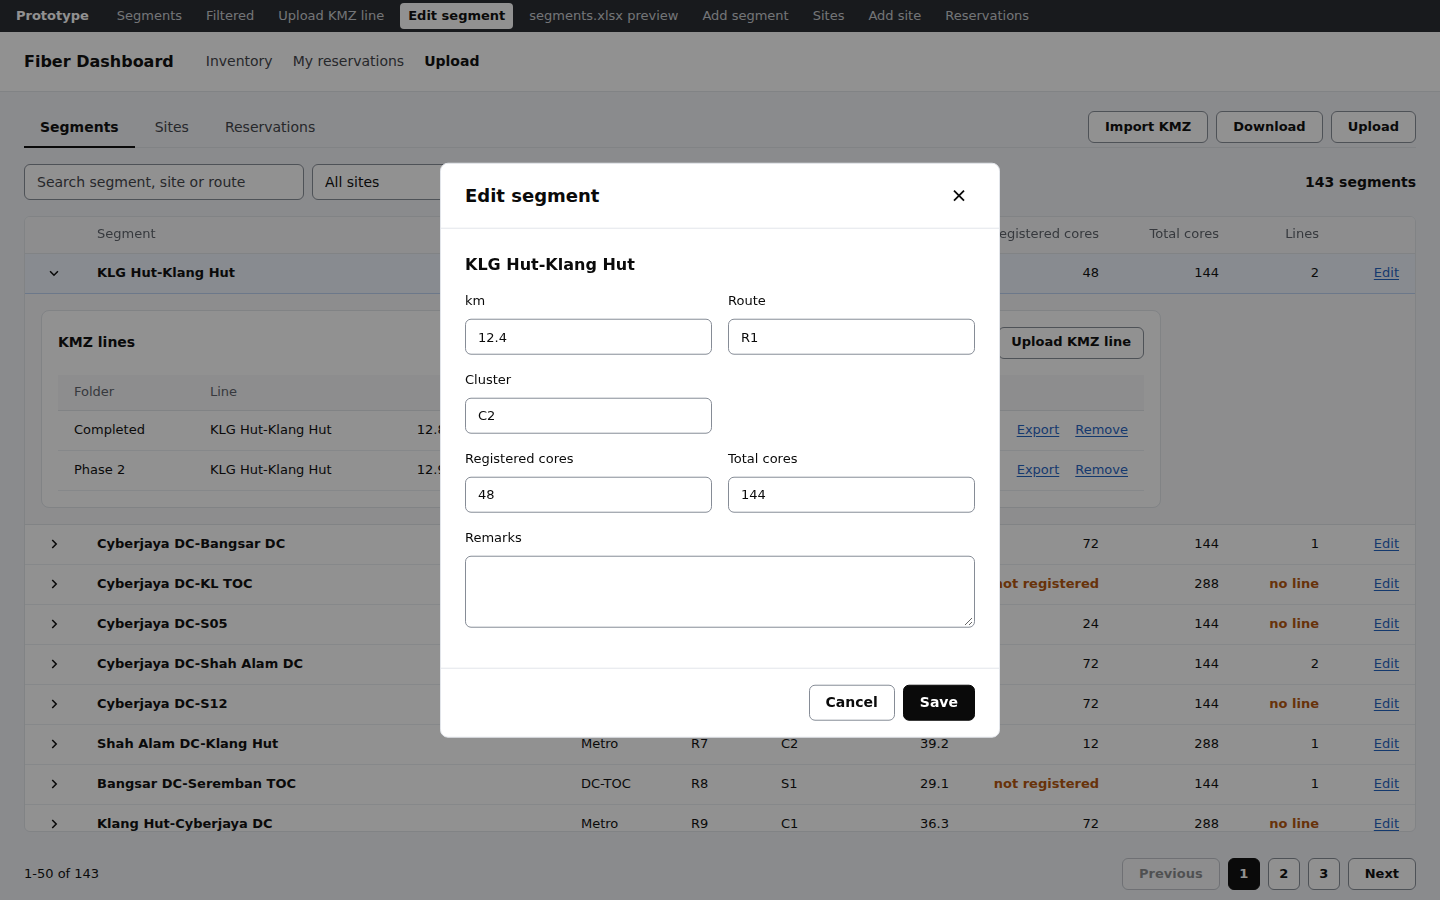
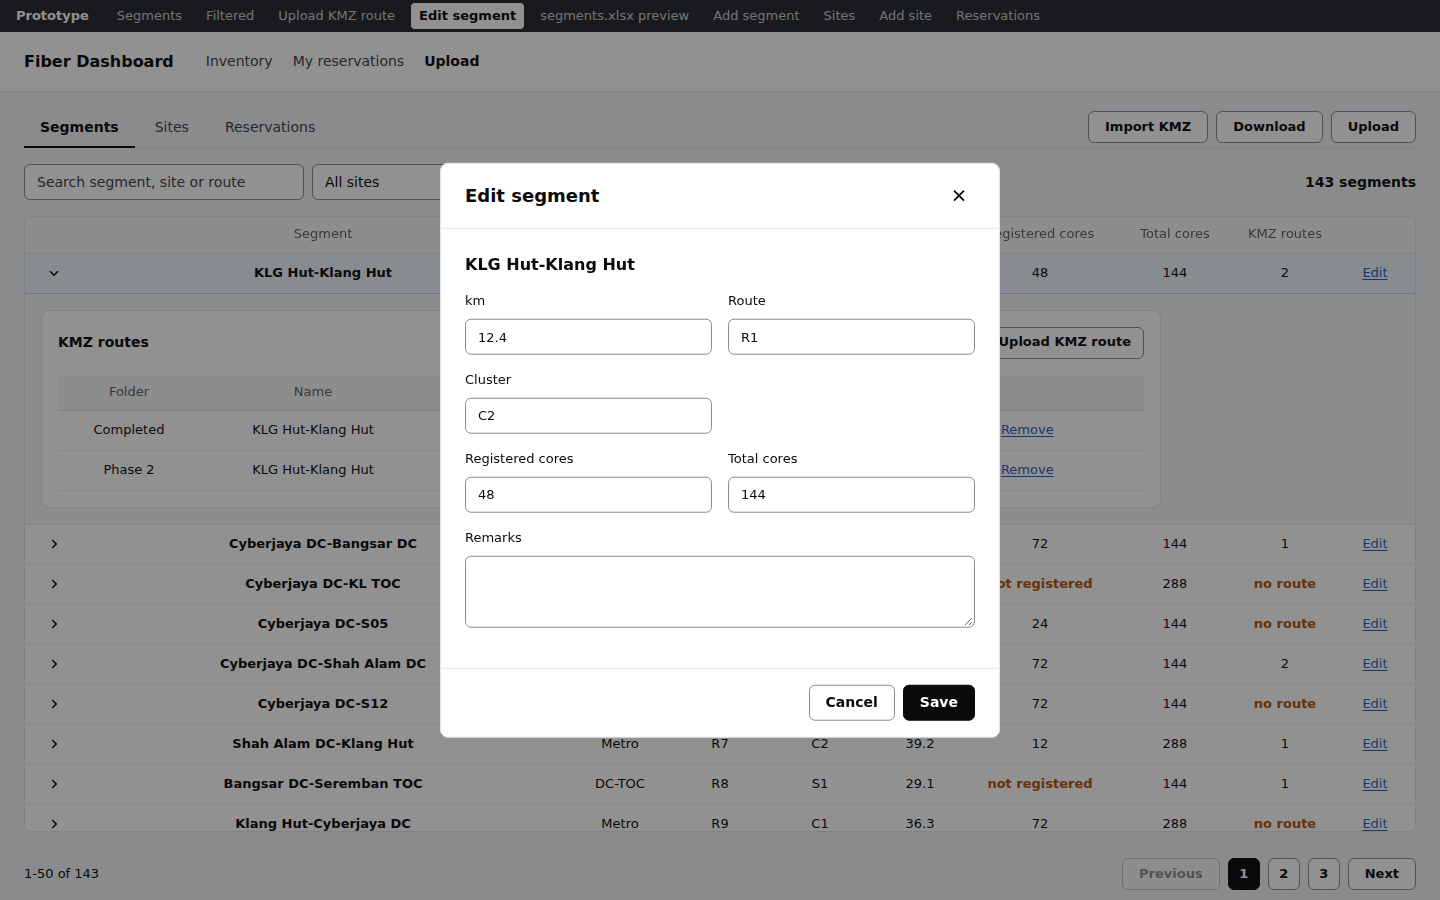
pictures: Upload rework v3 (KMZ routes wording, centred columns), 26 Nov 2026
Claude-Session: https://claude.ai/code/session_01YGKZuAJrqywA4fjVaRMsdP

diff --git a/mockups/upload-rework/index.html b/mockups/upload-rework/index.html
@@ -58,14 +58,13 @@ select.field { appearance: none; padding-right: 30px; cursor: pointer; backgroun
 .st-review { color: var(--amber); font-weight: 600; }
 .st-rej { color: var(--red); font-weight: 600; }
 .tbl { width: 100%; table-layout: fixed; border-collapse: collapse; }
-.tbl th, .tbl td { text-align: left; padding: 4px 16px; white-space: nowrap; overflow: hidden; text-overflow: ellipsis; font-size: 13px; }
-.tbl .l { text-align: left; }
-.tbl .r { text-align: right; }
+.tbl th, .tbl td { text-align: center; padding: 4px 12px; white-space: normal; overflow-wrap: anywhere; overflow: hidden; line-height: 1.3; font-size: 13px; }
+.tbl .l, .tbl .r { text-align: center; }
 .tbl thead th { font-size: 13px; font-weight: 500; color: var(--muted-ink); background: var(--subtle); height: 36px; border-bottom: 1px solid var(--border); position: sticky; top: 0; z-index: 1; }
 .tbl td, .tbl tbody th { height: 40px; border-bottom: 1px solid var(--rule); }
 .tbl tbody th { font-weight: 600; }
 .tbox { border: 1px solid var(--border); border-radius: 6px; overflow: hidden; background: #fff; }
-.tbl .c { padding: 0 16px; }
+.tbl .c { padding: 0 4px; }
 .chev { width: 24px; height: 24px; border: 0; background: none; border-radius: 4px; display: inline-grid; place-items: center; cursor: pointer; vertical-align: middle; }
 .chev:hover { background: var(--raised); }
 .chev svg { width: 14px; height: 14px; fill: none; stroke: var(--ink); stroke-width: 1.8; transition: transform .12s; }
@@ -102,15 +101,13 @@ select.field { appearance: none; padding-right: 30px; cursor: pointer; backgroun
 .khead { display: flex; align-items: center; justify-content: space-between; gap: 16px; }
 .khead b { font-weight: 600; font-size: 14px; color: var(--ink); }
 .lines { display: grid; }
-.lrow { display: grid; grid-template-columns: 120px minmax(0, 1fr) 90px 200px 130px 280px; align-items: center; gap: 16px; min-height: 40px; padding: 0 16px; font-size: 13px; border-bottom: 1px solid var(--rule); }
-.lrow > span { white-space: nowrap; overflow: hidden; text-overflow: ellipsis; }
-.lrow > span:nth-child(3) { text-align: right; }
+.lrow { display: grid; grid-template-columns: 110px minmax(0, 1fr) 80px minmax(0, 190px) 120px 260px; align-items: center; gap: 12px; text-align: center; min-height: 40px; padding: 0 16px; font-size: 13px; border-bottom: 1px solid var(--rule); }
+.lrow > span { overflow-wrap: anywhere; line-height: 1.3; padding: 4px 0; }
 .lrow.head { min-height: 36px; color: var(--muted-ink); font-weight: 500; background: var(--subtle); border-bottom-color: var(--border); }
 .lrow.item.removing { background: var(--amber-bg); }
 .lrow.item.removed .t { text-decoration: line-through; }
-.lrow .acts { display: flex; gap: 16px; justify-content: flex-end; align-items: center; }
-.lrow .acts .warn { margin-right: auto; }
-.kempty { padding: 0 16px; }
+.lrow .acts { display: flex; gap: 16px; justify-content: center; align-items: center; }
+.kempty { padding: 0 16px; text-align: center; }
 
 /* Boxes */
 .dim { position: fixed; inset: 0; background: rgb(10 10 10 / .45); z-index: 10; }
@@ -129,11 +126,10 @@ select.field { appearance: none; padding-right: 30px; cursor: pointer; backgroun
 .drop { border: 1px dashed var(--line); background: var(--subtle); border-radius: 6px; padding: 16px; display: flex; align-items: center; gap: 16px; font-size: 13px; }
 .segname { font-size: 16px; font-weight: 600; }
 .flist { border: 1px solid var(--border); border-radius: 6px; }
-.frow { display: grid; grid-template-columns: 16px minmax(0, 1fr) 100px 80px 120px; align-items: center; gap: 16px; height: 40px; padding: 0 16px; font-size: 13px; border-bottom: 1px solid var(--rule); cursor: pointer; }
+.frow { display: grid; grid-template-columns: 16px minmax(0, 1fr) 100px 80px 120px; align-items: center; gap: 12px; min-height: 40px; text-align: center; padding: 0 16px; font-size: 13px; border-bottom: 1px solid var(--rule); cursor: pointer; }
 .frow:last-child { border-bottom: 0; }
-.frow.head { height: 36px; font-size: 13px; color: var(--muted-ink); background: var(--subtle); cursor: default; font-weight: 500; }
-.frow > span:nth-child(4) { text-align: right; }
-.frow > span { white-space: nowrap; overflow: hidden; text-overflow: ellipsis; }
+.frow.head { min-height: 36px; font-size: 13px; color: var(--muted-ink); background: var(--subtle); cursor: default; font-weight: 500; }
+.frow > span { overflow-wrap: anywhere; line-height: 1.3; padding: 4px 0; }
 .frow.on { background: var(--blue-bg); }
 .chips { display: flex; gap: 8px; flex-wrap: wrap; }
 .pscroll { max-height: 440px; overflow: auto; border: 1px solid var(--border); border-radius: 6px; }
@@ -157,7 +153,7 @@ select.field { appearance: none; padding-right: 30px; cursor: pointer; backgroun
 
 <nav class="proto" aria-label="Prototype views">
   <b>Prototype</b>
-  <a href="#segments">Segments</a><a href="#filtered">Filtered</a><a href="#upload-line">Upload KMZ line</a><a href="#edit">Edit segment</a>
+  <a href="#segments">Segments</a><a href="#filtered">Filtered</a><a href="#upload-route">Upload KMZ route</a><a href="#edit">Edit segment</a>
   <a href="#xlsx">segments.xlsx preview</a><a href="#add-segment">Add segment</a><a href="#sites">Sites</a><a href="#add-site">Add site</a><a href="#reservations">Reservations</a>
 </nav>
 
@@ -371,7 +367,7 @@ function renderSegments() {
       <select class="field" style="width:200px" id="seg-site" aria-label="Site">${siteOptions(filter.site, "All sites")}</select>
       ${filter.site ? '<button class="btn btn-sm" type="button" data-open="add-segment">Add segment</button>' : ""}
       <select class="field" style="width:140px" id="seg-route" aria-label="Route"><option value="">All routes</option>${routes.map((route) => `<option ${route === filter.route ? "selected" : ""}>${route}</option>`).join("")}</select></div>
-      <div class="grp"><button class="chip" type="button" id="chip-noline" aria-pressed="${filter.noLine}">No line only</button>
+      <div class="grp"><button class="chip" type="button" id="chip-noline" aria-pressed="${filter.noLine}">No route only</button>
       <button class="chip" type="button" id="chip-notver" aria-pressed="${filter.notRegistered}">Not registered only</button></div>
       <span class="count" id="seg-count"></span>
     </div>
@@ -380,7 +376,7 @@ function renderSegments() {
         <colgroup><col style="width:56px"><col><col style="width:110px"><col style="width:90px"><col style="width:110px"><col style="width:90px">
           <col style="width:150px"><col style="width:120px"><col style="width:100px"><col style="width:80px"></colgroup>
         <thead><tr><th class="c" aria-label="Open"></th><th>Segment</th><th>Type</th><th>Route</th><th>Cluster</th><th class="r">km</th>
-          <th class="r">Registered cores</th><th class="r">Total cores</th><th class="r">Lines</th><th></th></tr></thead>
+          <th class="r">Registered cores</th><th class="r">Total cores</th><th class="r">KMZ routes</th><th></th></tr></thead>
         <tbody id="seg-body"></tbody>
       </table>
     </div>
@@ -392,7 +388,7 @@ function lineRowHtml(segment, line) {
   let cls = "lrow item";
   if (line.state === "removing") {
     cls += " removing";
-    acts = `<span>Remove line?</span><button class="btn btn-sm" type="button" data-confirm-remove="${line.id}">Remove</button>
+    acts = `<span>Remove route?</span><button class="btn btn-sm" type="button" data-confirm-remove="${line.id}">Remove</button>
       <button class="link" type="button" data-cancel-remove="${line.id}">Cancel</button>`;
   } else if (line.state === "removed") {
     cls += " removed";
@@ -403,10 +399,10 @@ function lineRowHtml(segment, line) {
 }
 function expandedHtml(segment) {
   const lines = activeLines(segment);
-  const head = '<div class="lrow head"><span>Folder</span><span>Line</span><span>km</span><span>File</span><span>Uploaded</span><span></span></div>';
-  const body = lines.length ? `<div class="lines">${head}${lines.map((line) => lineRowHtml(segment, line)).join("")}</div>` : '<div class="kempty">No line</div>';
-  return `<tr class="xrow"><td colspan="10"><div class="kcard"><div class="khead"><b>KMZ lines</b>
-    <button class="btn btn-sm" type="button" data-upline="${segment.id}">Upload KMZ line</button></div>${body}</div></td></tr>`;
+  const head = '<div class="lrow head"><span>Folder</span><span>Name</span><span>km</span><span>File</span><span>Uploaded</span><span></span></div>';
+  const body = lines.length ? `<div class="lines">${head}${lines.map((line) => lineRowHtml(segment, line)).join("")}</div>` : '<div class="kempty">No route</div>';
+  return `<tr class="xrow"><td colspan="10"><div class="kcard"><div class="khead"><b>KMZ routes</b>
+    <button class="btn btn-sm" type="button" data-upline="${segment.id}">Upload KMZ route</button></div>${body}</div></td></tr>`;
 }
 function renderSegmentRows() {
   const rows = filteredSegments();
@@ -418,7 +414,7 @@ function renderSegmentRows() {
     const isOpen = state.open.has(segment.id);
     const count = liveLines(segment).length;
     const verified = segment.verified === null ? '<span class="warn">not registered</span>' : segment.verified;
-    const lines = count === 0 ? '<span class="warn">no line</span>' : count;
+    const lines = count === 0 ? '<span class="warn">no route</span>' : count;
     const row = `<tr class="srow${isOpen ? " open" : ""}"><td class="c"><button class="chev" type="button" aria-expanded="${isOpen}" aria-label="Open or close ${segment.link}" data-chev="${segment.id}">${CHEV}</button></td>
       <th scope="row" title="${segment.link}">${segment.link}</th><td>${routeType(segment.a, segment.b)}</td><td>${segment.route}</td><td>${segment.section}</td>
       <td class="r">${segment.km.toFixed(1)}</td><td class="r">${verified}</td><td class="r">${segment.total}</td><td class="r">${lines}</td>
@@ -523,18 +519,18 @@ function uploadLineBox(modal) {
   if (file) {
     const rows = fileLines(segment).map((line) => {
       const on = modal.picked.has(line.key);
-      const note = on && hasLine ? '<span class="warn">replaces line</span>' : "<span></span>";
+      const note = on && hasLine ? '<span class="warn">replaces route</span>' : "<span></span>";
       return `<label class="frow${on ? " on" : ""}"><input type="checkbox" data-fpick="${line.key}" ${on ? "checked" : ""} aria-label="Pick ${line.title}">
         <span title="${line.title}">${line.title}</span><span>${line.folder}</span><span>${line.km.toFixed(1)} km</span>${note}</label>`;
     }).join("");
-    list = `<div class="flist"><div class="frow head"><span></span><span>Line</span><span>Folder</span><span>km</span><span></span></div>${rows}</div>`;
+    list = `<div class="flist"><div class="frow head"><span></span><span>Name</span><span>Folder</span><span>km</span><span></span></div>${rows}</div>`;
   }
   const size = modal.picked.size;
   const body = `<div class="segname">${segment.link}</div>
     <div class="drop"><button class="btn ${file ? "" : "btn-p"}" type="button" id="up-choose">Choose .kmz file</button><span>${file ?? "No file"}</span></div>${list}`;
   const foot = `<span class="count"></span><button class="btn" type="button" data-close>Cancel</button>
-    <button class="btn btn-p" type="button" id="up-add" ${size === 0 ? "disabled" : ""}>Add ${plural(size, "line")}</button>`;
-  return boxShell(640, "Upload KMZ line", body, foot);
+    <button class="btn btn-p" type="button" id="up-add" ${size === 0 ? "disabled" : ""}>Add ${plural(size, "route")}</button>`;
+  return boxShell(640, "Upload KMZ route", body, foot);
 }
 function editBox(modal) {
   const segment = segById(modal.seg);
@@ -647,7 +643,7 @@ function renderModal() {
     $("#modal").innerHTML = "";
     return;
   }
-  const builders = { "upload-line": uploadLineBox, edit: editBox, "add-segment": addSegmentBox, site: siteBox, "import-kmz": importKmzBox, xlsx: xlsxBox };
+  const builders = { "upload-route": uploadLineBox, edit: editBox, "add-segment": addSegmentBox, site: siteBox, "import-kmz": importKmzBox, xlsx: xlsxBox };
   $("#modal").innerHTML = builders[modal.type](modal);
 }
 
@@ -756,7 +752,7 @@ document.addEventListener("click", (event) => {
     const { segment } = lineById(data.export);
     toast(`Exported ${segment.link}.kmz`);
   } else if (data.upline) {
-    state.modal = { type: "upload-line", seg: +data.upline, file: null, picked: new Set() };
+    state.modal = { type: "upload-route", seg: +data.upline, file: null, picked: new Set() };
     renderModal();
   } else if (target.id === "up-choose") {
     state.modal.file = "completed-nov.kmz";
@@ -772,7 +768,7 @@ document.addEventListener("click", (event) => {
     }
     state.open.add(segment.id);
     state.modal = null;
-    toast(`Added ${plural(picked.length, "line")} to ${segment.link}`);
+    toast(`Added ${plural(picked.length, "route")} to ${segment.link}`);
     render();
   } else if (data.edit) {
     state.modal = { type: "edit", seg: +data.edit };
@@ -931,8 +927,8 @@ function applyHash() {
     state.open = new Set();
     state.seg.site = "Cyberjaya DC";
     state.seg.noLine = true;
-  } else if (hash === "upload-line") {
-    state.modal = { type: "upload-line", seg: 1, file: "completed-nov.kmz", picked: new Set(["f0"]) };
+  } else if (hash === "upload-route") {
+    state.modal = { type: "upload-route", seg: 1, file: "completed-nov.kmz", picked: new Set(["f0"]) };
   } else if (hash === "edit") {
     state.modal = { type: "edit", seg: 1 };
   } else if (hash === "xlsx") {
